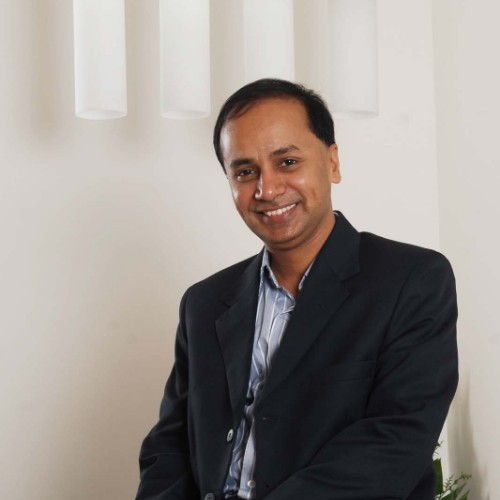
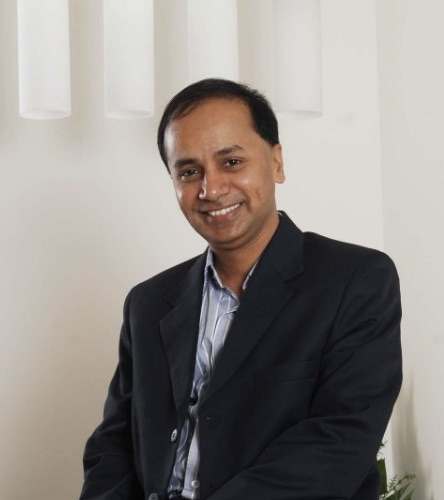
Update website

diff --git a/new-website/src/components/people/people-data.ts b/new-website/src/components/people/people-data.ts
@@ -102,7 +102,7 @@ export const PEOPLE: Person[] = [
     name: "Prof. R Vaidyanathan",
     role: "Mentor & Advisor",
     group: "Advisory Board",
-    photo: "/Assets/People/profr.jpg",
+    photo: "/Assets/People/profr.png",
     location: "",
     focus: [],
     bio:
@@ -127,7 +127,7 @@ export const PEOPLE: Person[] = [
     name: "Dr. Uday Saxena",
     role: "Advisor",
     group: "Advisory Board",
-    photo: "/Assets/People/Uday.png",
+    photo: "/Assets/People/Uday.jpeg",
     location: "",
     focus: [],
     bio:
@@ -247,7 +247,7 @@ export const PEOPLE: Person[] = [
   name: "Krishank Ayyella",
   role: "Management Trainee",
   group: "Investment Team",
-  photo: "/Assets/People/krishank.jpg",
+  photo: "/Assets/People/krishank.png",
   location: "",
   focus: [],
   bio: